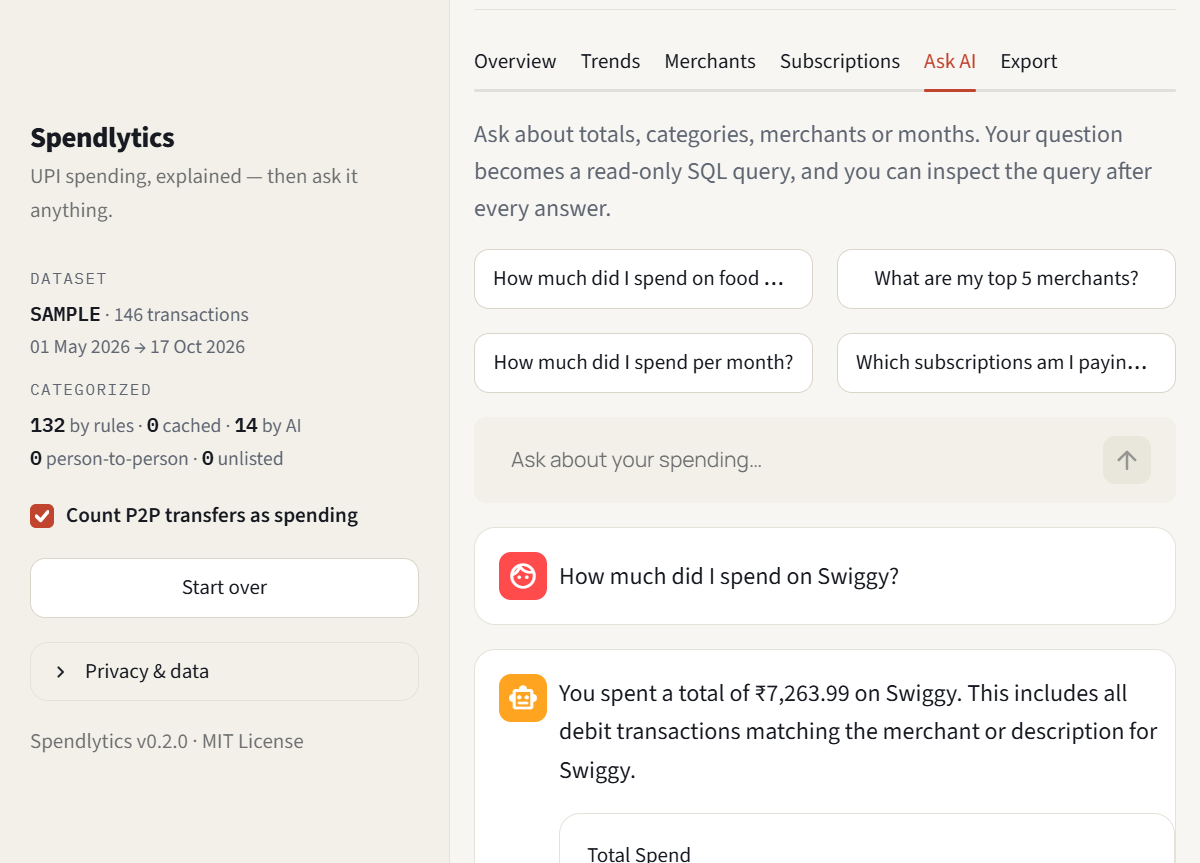
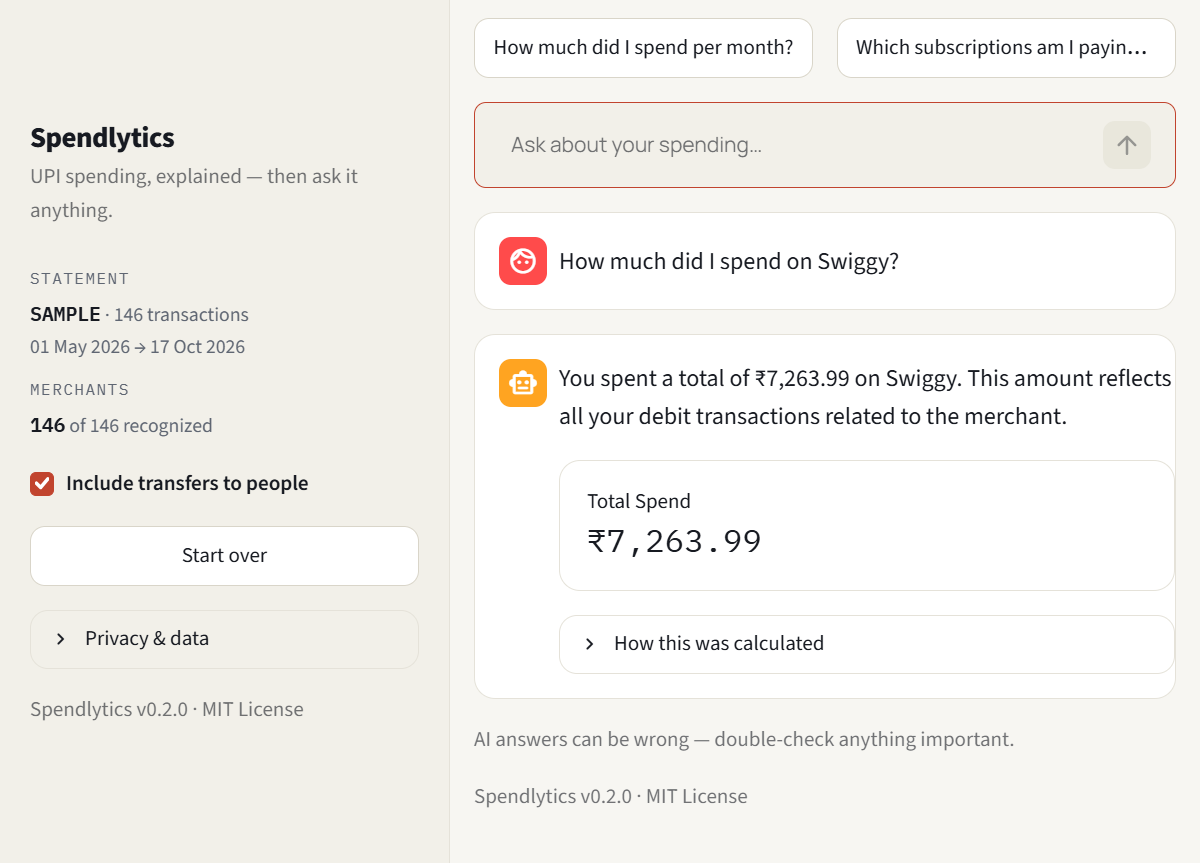
polish: rewrite all user-facing copy in product voice
- Ask tab: lede no longer explains the SQL pipeline ('plain English works');
  expander renamed 'How this was calculated'; disclaimer now reads
  'AI answers can be wrong'; no-key callout reworded
- Sidebar: 'Statement' + 'Merchants: 146 of 146 recognized' instead of the
  rules/cache/AI engine split (split moved into Privacy & data as a caption)
- Toggle: 'Include transfers to people'; chips: dropped redundant count
- Landing: uploader caption, steps 02/03, demo caption and footer rewritten
  without parser/tooling talk
- Subs/Trends/Export: dropped 'cadence', 'hardcoded list', 'MoM', 'Data
  dictionary', 'cleaned transactions' jargon
- Hide Streamlit's heading anchor-link chrome (stHeaderActionElements)
- Fresh screenshots for all four assets

diff --git a/app.py b/app.py
@@ -52,6 +52,9 @@ h1, h2, h3, h4 {font-family: 'Manrope', 'Segoe UI', sans-serif !important;
     font-family: 'Material Symbols Rounded' !important;
 }
 
+/* heading anchor links are Streamlit chrome, not product */
+[data-testid="stHeaderActionElements"] {display: none !important;}
+
 /* ---------------------------------------------------------- landing */
 .sp-eyebrow {font-family: var(--mono); font-size: 0.72rem; letter-spacing: 0.14em;
     text-transform: uppercase; color: var(--accent); margin-bottom: 0.9rem;}
@@ -220,23 +223,21 @@ with st.sidebar:
         stats: dict = st.session_state["stats"] or {}
         source = str(df["source"].iloc[0]).upper()
         first, last = df["date"].min(), df["date"].max()
-        st.markdown('<div class="sp-side-label">Dataset</div>', unsafe_allow_html=True)
+        st.markdown('<div class="sp-side-label">Statement</div>', unsafe_allow_html=True)
         st.markdown(
             f'<div class="sp-side-line"><b>{source}</b> · {len(df):,} transactions<br>'
             f"{first:%d %b %Y} → {last:%d %b %Y}</div>",
             unsafe_allow_html=True,
         )
-        st.markdown('<div class="sp-side-label">Categorized</div>', unsafe_allow_html=True)
-        st.markdown(
-            f'<div class="sp-side-line"><b>{stats.get("rules", 0):,}</b> by rules · '
-            f'<b>{stats.get("cache", 0):,}</b> cached · <b>{stats.get("llm", 0):,}</b> by AI<br>'
-            f'<b>{stats.get("fallback", 0):,}</b> person-to-person · '
-            f'<b>{stats.get("other", 0):,}</b> unlisted</div>',
-            unsafe_allow_html=True,
-        )
+        identified = stats.get("total", 0) - stats.get("other", 0)
+        matched = f"<b>{identified:,}</b> of {stats.get('total', 0):,} recognized"
+        if stats.get("other"):
+            matched += f'<br><b>{stats["other"]:,}</b> left as Other'
+        st.markdown('<div class="sp-side-label">Merchants</div>', unsafe_allow_html=True)
+        st.markdown(f'<div class="sp-side-line">{matched}</div>', unsafe_allow_html=True)
         st.write("")
         st.session_state["include_transfers"] = st.checkbox(
-            "Count P2P transfers as spending", value=True
+            "Include transfers to people", value=True
         )
         st.button("Start over", width="stretch", on_click=reset_data)
     else:
@@ -247,12 +248,19 @@ with st.sidebar:
 
     with st.expander("Privacy & data"):
         st.markdown(
-            "Statements are parsed **in memory in your session** and never stored. When an "
-            "AI key is configured, only cleaned merchant names (never amounts, dates or "
-            "account details) are sent for categorisation. Ask-tab questions send your "
-            "question and the table schema, not the transactions themselves. "
-            "Open source — you can verify all of this."
+            "Your statement is processed in memory in this session and never stored. "
+            "Merchant names may be sent to an AI service for categorization — never "
+            "amounts, dates or account numbers. Chat questions send only your question "
+            "and the column names."
         )
+        if st.session_state.get("stats"):
+            split = st.session_state["stats"]
+            st.caption(
+                f"This statement: {split.get('rules', 0):,} categorized by built-in rules, "
+                f"{split.get('cache', 0):,} remembered from earlier, "
+                f"{split.get('llm', 0):,} by AI, "
+                f"{split.get('fallback', 0):,} matched as person-to-person."
+            )
 
     st.caption(f"{APP_NAME} v{APP_VERSION} · MIT License")
 
@@ -283,10 +291,7 @@ if not has_data:
                 key="uploader",
                 label_visibility="collapsed",
             )
-            st.caption(
-                "Google Pay / PhonePe PDF exports or any bank CSV — unfamiliar column "
-                "layouts are detected automatically."
-            )
+            st.caption("PDF or CSV — from any bank or UPI app.")
             if uploaded is not None and st.session_state.get("upload_name") != uploaded.name:
                 try:
                     with st.spinner("Reading statement…"):
@@ -307,7 +312,7 @@ if not has_data:
             ):
                 load_sample()
                 st.rerun()
-            st.caption("Six months of realistic sample data. Nothing is uploaded.")
+            st.caption("Six months of sample data. Nothing is uploaded.")
 
     st.markdown(
         f"""
@@ -321,18 +326,18 @@ if not has_data:
           <div class="sp-step">
             <div class="sp-step-no">02</div>
             <div class="sp-step-title">Drop it here</div>
-            <p>PDF and CSV both work. The parser adapts to unfamiliar column layouts
-            instead of expecting one fixed format.</p>
+            <p>PDF and CSV both work — any bank, any statement, no preparation
+            needed.</p>
           </div>
           <div class="sp-step">
             <div class="sp-step-no">03</div>
             <div class="sp-step-title">Read the report</div>
-            <p>Spend by category, forgotten subscriptions, months above your normal —
-            then ask the copilot anything else.</p>
+            <p>See where it went, what you're still paying for, and which months stood
+            out — then ask anything.</p>
           </div>
         </div>
-        <div class="sp-foot">Spendlytics v{APP_VERSION} · MIT · statements are processed
-        in memory, never stored</div>
+        <div class="sp-foot">Spendlytics v{APP_VERSION} · Statements are processed in
+        memory, never stored</div>
         """,
         unsafe_allow_html=True,
     )
@@ -342,7 +347,6 @@ if not has_data:
 # -------------------------------------------------------------- dashboard
 
 df = st.session_state["df"]
-stats = st.session_state["stats"] or {}
 include_transfers = bool(st.session_state.get("include_transfers", True))
 rows = analytics.spend_rows(df, include_transfers)
 
@@ -357,7 +361,6 @@ st.markdown(
         <span class="sp-chip sp-chip-accent">{str(df["source"].iloc[0]).upper()}</span>
         <span class="sp-chip">{len(df):,} transactions</span>
         <span class="sp-chip">{df["date"].min():%d %b %Y} – {df["date"].max():%d %b %Y}</span>
-        <span class="sp-chip">categorized {stats.get("total", 0):,}</span>
       </div>
     </div>
     """,
@@ -365,7 +368,7 @@ st.markdown(
 )
 
 if rows.empty:
-    st.warning("No debit transactions found with the current filter.")
+    st.warning("No spending transactions match the current settings.")
     st.stop()
 
 tab_overview, tab_trends, tab_merchants, tab_subs, tab_ask, tab_export = st.tabs(
@@ -421,7 +424,7 @@ with tab_overview:
     insight = analytics.headline_insight(rows)
     if insight:
         st.markdown(
-            f'<div class="sp-callout"><span class="sp-callout-k">Auto insight</span>'
+            f'<div class="sp-callout"><span class="sp-callout-k">Insight</span>'
             f"{insight}</div>",
             unsafe_allow_html=True,
         )
@@ -462,13 +465,13 @@ with tab_trends:
     risers = analytics.category_breakdown(rows)
     risers = risers[risers["change_pct"].notna()].sort_values("change_pct", ascending=False)
     if not risers.empty:
-        st.subheader("Category momentum (latest month vs previous)")
+        st.subheader("What changed — latest month vs previous")
         mover_columns = st.columns(min(3, len(risers)))
         for column, (_, entry) in zip(mover_columns, risers.head(3).iterrows()):
             column.metric(
                 entry["category"],
                 money(entry["total"]),
-                delta=f"{entry['change_pct']:+.0f}% MoM",
+                delta=f"{entry['change_pct']:+.0f}%",
             )
 
 with tab_merchants:
@@ -499,8 +502,8 @@ with tab_subs:
     subscriptions = analytics.detect_subscriptions(df)
     if subscriptions.empty:
         st.caption(
-            "No recurring charges detected yet. Detection needs at least three charges "
-            "with a roughly monthly cadence and a stable amount."
+            "No recurring charges yet. They appear here once the same amount repeats "
+            "every month or so."
         )
     else:
         total_monthly = subscriptions["estimated_monthly"].sum()
@@ -517,23 +520,19 @@ with tab_subs:
             }
         )
         st.dataframe(display, hide_index=True)
-        st.caption(
-            "Detected from cadence (roughly monthly) and stable amounts — not from a "
-            "hardcoded list of services."
-        )
+        st.caption("Found from their billing rhythm: roughly monthly, similar amounts.")
 
 with tab_ask:
     st.markdown(
-        '<p class="sp-lede-sm">Ask about totals, categories, merchants or months. Your '
-        "question becomes a read-only SQL query, and you can inspect the query after "
-        "every answer.</p>",
+        '<p class="sp-lede-sm">Ask about totals, categories, merchants or months — '
+        "plain English works.</p>",
         unsafe_allow_html=True,
     )
     if not client.available():
         st.markdown(
-            '<div class="sp-callout"><span class="sp-callout-k">Copilot needs a key</span>'
-            "Add a free Gemini API key (2-minute setup, no card) to enable questions — "
-            "everything else on this page works without it.</div>",
+            '<div class="sp-callout"><span class="sp-callout-k">Ask AI is off</span>'
+            "Questions need an AI key. Add a free Gemini API key to switch this on — "
+            "everything else works without it.</div>",
             unsafe_allow_html=True,
         )
     suggestions = [
@@ -554,7 +553,7 @@ with tab_ask:
         with st.chat_message(message["role"]):
             st.markdown(message["content"])
             if message.get("sql"):
-                with st.expander("Generated SQL"):
+                with st.expander("How this was calculated"):
                     st.code(message["sql"], language="sql")
             if message.get("table") is not None:
                 table: pd.DataFrame = message["table"]
@@ -602,7 +601,7 @@ with tab_ask:
                             st.plotly_chart(figure, width="stretch", key="chart_chat_current")
                         st.dataframe(result.table, hide_index=True)
                 if result.sql:
-                    with st.expander("Generated SQL"):
+                    with st.expander("How this was calculated"):
                         st.code(result.sql, language="sql")
                 st.session_state["chat"].append(
                     {
@@ -612,16 +611,14 @@ with tab_ask:
                         "table": result.table,
                     }
                 )
-        st.caption(
-            "SQL is generated by AI and validated before running — read-only, single statement."
-        )
+        st.caption("AI answers can be wrong — double-check anything important.")
 
 with tab_export:
     cleaned = df.copy()
     summary = analytics.monthly_summary(df)
     export_columns = st.columns(2)
     export_columns[0].download_button(
-        "Download cleaned transactions (CSV)",
+        "Download all transactions (CSV)",
         data=cleaned.to_csv(index=False).encode("utf-8"),
         file_name="spendlytics_transactions.csv",
         mime="text/csv",
@@ -634,19 +631,19 @@ with tab_export:
         mime="text/csv",
         width="stretch",
     )
-    st.subheader("Data preview")
+    st.subheader("Preview")
     preview = money_frame(cleaned, ["amount"])
     st.dataframe(preview, hide_index=True, height=320)
-    with st.expander("Data dictionary"):
+    with st.expander("About these columns"):
         st.markdown(
             "| Column | Meaning |\n|---|---|\n"
-            "| date | Transaction date (normalised) |\n"
-            "| description | Raw narration from the statement |\n"
+            "| date | Transaction date |\n"
+            "| description | Original text from the statement |\n"
             "| merchant | Cleaned merchant name |\n"
-            "| amount | Absolute value in ₹ |\n"
-            "| direction | debit (spent) or credit (received) |\n"
-            "| category | Assigned spending category |\n"
-            "| source | Which parser produced the row |"
+            "| amount | Amount in ₹ |\n"
+            "| direction | Spent or received |\n"
+            "| category | Spending category |\n"
+            "| source | File this row came from |"
         )
 
 st.caption(f"{APP_NAME} v{APP_VERSION} · MIT License")
